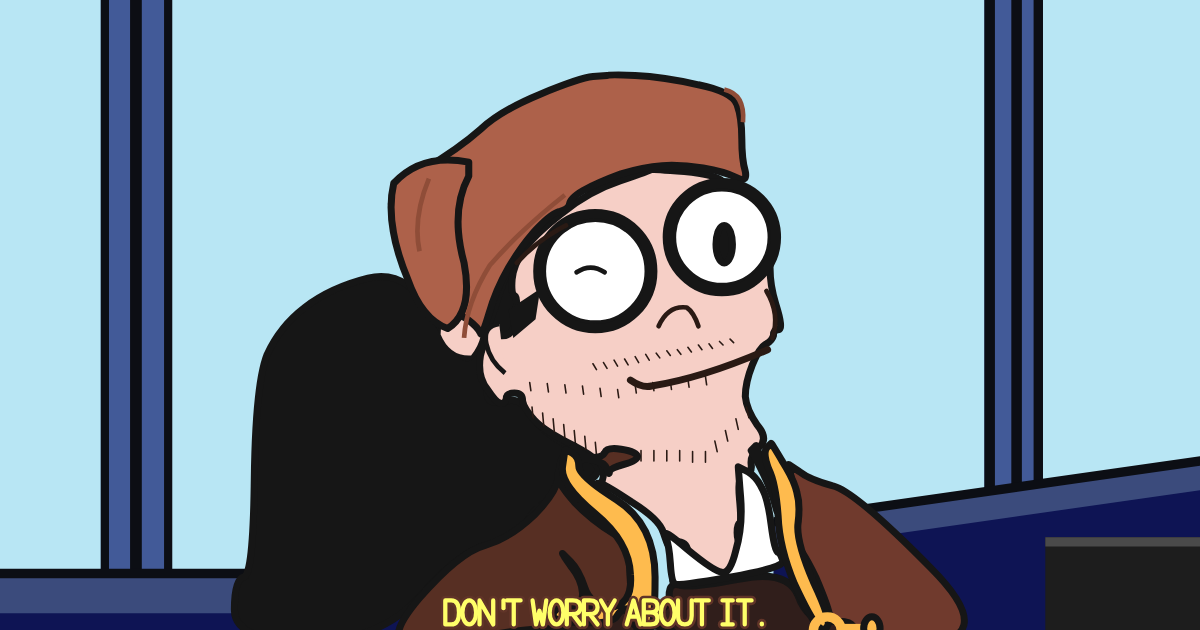
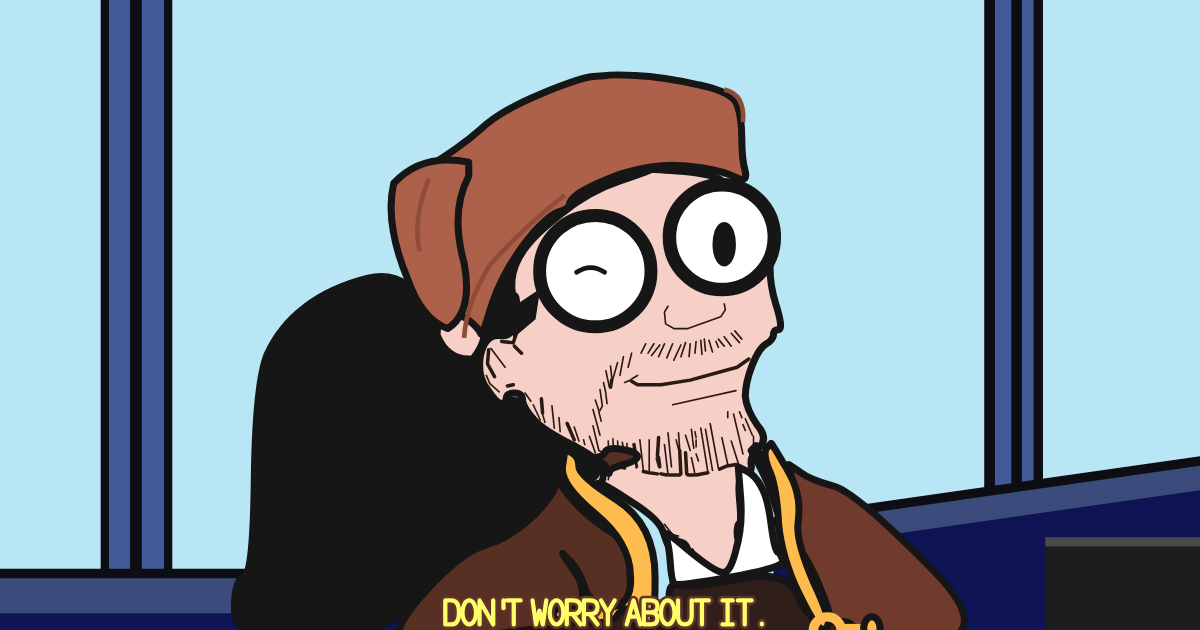
tipsy: rebuild face linework from measured reference pixels, not hand-drawn — nose/smile/brow/stubble/ear-folds all extracted in one pass

Changed region(s): [[0.4625, 0.4825, 0.6475, 0.754], [0.4008, 0.5127, 0.4625, 0.6635]]

diff --git a/tipsy/tipsy/index.html b/tipsy/tipsy/index.html
@@ -4,18 +4,18 @@
 <meta charset="utf-8">
 <meta name="viewport" content="width=device-width,initial-scale=1">
 <title>Tipsy Turtles_Bonus Snippet_1 — on chain</title>
-<meta name="description" content="Tipsy Turtles_Bonus Snippet_1 redrawn as vector art and stored entirely inside its minting transaction — 12,373 bytes, no IPFS, no gateway.">
+<meta name="description" content="Tipsy Turtles_Bonus Snippet_1 redrawn as vector art and stored entirely inside its minting transaction — 13,747 bytes, no IPFS, no gateway.">
 <link rel="canonical" href="https://beacnpool.github.io/ABCDE/tipsy/tipsy/">
 <meta property="og:type" content="website">
 <meta property="og:url" content="https://beacnpool.github.io/ABCDE/tipsy/tipsy/">
 <meta property="og:title" content="Tipsy Turtles_Bonus Snippet_1 — on chain">
-<meta property="og:description" content="Tipsy Turtles_Bonus Snippet_1 redrawn as vector art and stored entirely inside its minting transaction — 12,373 bytes, no IPFS, no gateway.">
+<meta property="og:description" content="Tipsy Turtles_Bonus Snippet_1 redrawn as vector art and stored entirely inside its minting transaction — 13,747 bytes, no IPFS, no gateway.">
 <meta property="og:image" content="https://beacnpool.github.io/ABCDE/tipsy/tipsy/og.png">
 <meta property="og:image:width" content="1200">
 <meta property="og:image:height" content="630">
 <meta name="twitter:card" content="summary_large_image">
 <meta name="twitter:title" content="Tipsy Turtles_Bonus Snippet_1 — on chain">
-<meta name="twitter:description" content="Tipsy Turtles_Bonus Snippet_1 redrawn as vector art and stored entirely inside its minting transaction — 12,373 bytes, no IPFS, no gateway.">
+<meta name="twitter:description" content="Tipsy Turtles_Bonus Snippet_1 redrawn as vector art and stored entirely inside its minting transaction — 13,747 bytes, no IPFS, no gateway.">
 <meta name="twitter:image" content="https://beacnpool.github.io/ABCDE/tipsy/tipsy/og.png">
 <style>
 *{box-sizing:border-box}
@@ -100,7 +100,7 @@ footer{margin-top:44px;padding-top:16px;border-top:1px solid var(--line);
      <code>ipfs://QmaHHqybfwzf…</code> — and a pointer is only as permanent as
      whoever keeps paying to pin it.</p>
   <p class="sub">On the right is the same frame redrawn as vector art and written
-     <b>into the minting transaction itself</b>: 8,418 bytes of SVG, no gateway,
+     <b>into the minting transaction itself</b>: 9,417 bytes of SVG, no gateway,
      no pin, no bill.</p>
 
   <div class="vs">
@@ -123,9 +123,9 @@ footer{margin-top:44px;padding-top:16px;border-top:1px solid var(--line);
         <span class="tag chain">stored on Cardano</span><br>
         <b>Ours.</b> Decoded from the same base64 string that rides in the transaction
         below. Nothing was fetched to draw it.
-        <div class="bar"><i style="width:75.5%"></i></div>
-        <span style="color:var(--dim)">12,373 of 16,384 bytes
-        &middot; 76% of one transaction</span>
+        <div class="bar"><i style="width:83.9%"></i></div>
+        <span style="color:var(--dim)">13,747 of 16,384 bytes
+        &middot; 84% of one transaction</span>
       </div>
     </div>
   </div>
@@ -157,8 +157,8 @@ footer{margin-top:44px;padding-top:16px;border-top:1px solid var(--line);
     <tr><td>closes</td><td>24 Aug 2026 13:04 UTC</td></tr>
     <tr><td>asset name</td><td><code>TIPSY&lt;8 hex&gt;</code> — derived from the
         UTxO you spend, so every mint is a distinct token</td></tr>
-    <tr><td>image</td><td><code>8,418 bytes</code> of SVG, base64 in CIP-25 metadata</td></tr>
-    <tr><td>you pay</td><td><b>~0.70 ADA</b> network fee, plus
+    <tr><td>image</td><td><code>9,417 bytes</code> of SVG, base64 in CIP-25 metadata</td></tr>
+    <tr><td>you pay</td><td><b>~0.76 ADA</b> network fee, plus
         <b>~1.18 ADA</b> min-UTxO that stays in your wallet</td></tr>
     <tr><td>creator takes</td><td><b>nothing</b> — there is no payment address in this
         transaction</td></tr>
@@ -190,7 +190,7 @@ footer{margin-top:44px;padding-top:16px;border-top:1px solid var(--line);
     transaction · <a href="../">all three frames</a></footer>
 
 </div>
-<script id="art-src" type="image/svg+xml"><svg xmlns="http://www.w3.org/2000/svg" viewBox="0 0 1024 576"><defs><path id="fp" d="M556 164Q557 164 584 166Q612 169 616 174Q619 178 631 182Q643 186 652 200Q660 213 658 235Q655 257 662 279Q669 301 664 301Q660 301 660 306Q659 310 654 313Q648 316 642 331Q636 346 636 358Q637 369 646 382Q656 394 648 401Q640 408 641 416Q642 423 636 424Q629 424 631 445Q633 466 631 466Q629 467 629 474Q629 481 632 484Q634 487 632 498Q631 510 637 510Q643 511 623 514Q603 518 602 512Q602 507 597 504Q592 501 584 501Q577 501 576 511Q574 521 574 512Q574 503 580 502Q587 500 587 492Q587 483 579 482Q571 482 570 484Q570 486 566 474Q563 463 539 448Q515 432 512 432Q508 432 512 432Q515 431 515 422Q515 413 490 400Q464 387 456 378Q447 368 446 362Q446 355 439 355Q432 355 432 360Q431 364 428 364Q424 364 416 352Q407 341 410 323Q414 305 426 306Q439 308 440 290Q442 272 439 272Q436 271 437 258Q438 246 447 233Q456 220 479 202Q502 183 529 174Q556 165 556 164Z"/><clipPath id="fc"><use href="#fp"/></clipPath><path id="A" d="M0 28 8 0 16 28M3 19h10"/><path id="B" d="M0 28V0h8q8 0 8 7t-8 7H0m8 0q8 0 8 7t-8 7H0"/><path id="D" d="M0 0h7q9 0 9 14t-9 14H0z"/><path id="I" d="M2 0h12M8 0v28M2 28h12"/><path id="N" d="M0 28V0l16 28V0"/><path id="O" d="M8 0a8 14 0 0 0 0 28a8 14 0 0 0 0-28z"/><path id="R" d="M0 28V0h7q9 0 9 8t-9 8H0m7 0 9 12"/><path id="T" d="M0 0h16M8 0v28"/><path id="U" d="M0 0v18q0 10 8 10t8-10V0"/><path id="W" d="M0 0 4 28 8 12 12 28 16 0"/><path id="Y" d="M0 0 8 14 16 0M8 14v14"/><path id="k" d="M8 0v9"/><path id="p" d="M8 27v1"/><g id="cp" transform="translate(380 532)scale(0.73)"><use href="#D" x="0"/><use href="#O" x="20"/><use href="#N" x="40"/><use href="#k" x="60"/><use href="#T" x="72"/><use href="#W" x="102"/><use href="#O" x="122"/><use href="#R" x="142"/><use href="#R" x="162"/><use href="#Y" x="182"/><use href="#A" x="212"/><use href="#B" x="232"/><use href="#O" x="252"/><use href="#U" x="272"/><use href="#T" x="292"/><use href="#I" x="322"/><use href="#T" x="342"/><use href="#p" x="362"/></g></defs><path d="M0 0h1024v576H0z" fill="#b8e6f4"/><path d="M86 0h60v520H86z" fill="#425a98"/><path d="M86 0h7v520h-7zm25 0h10v520h-10zm29 0h7v520h-7z" fill="#0c0e14"/><path d="M840 0h50v448h-50z" fill="#425a98"/><path d="M840 0h9v448h-9zm23 0h9v448h-9zm19 0h8v448h-8z" fill="#0c0e14"/><path d="M0 508h446v68H0z" fill="#3b4b7c"/><path d="M0 543h446v33H0z" fill="#0e1454"/><path d="M0 505h446v8H0z" fill="#0c0e14"/><path d="M660 466 1024 414v162H660z" fill="#0e1454"/><path d="M660 466 1024 414v24L660 490z" fill="#3b4b7c"/><path d="M660 461 1024 409v8L660 469z" fill="#0c0e14"/><path d="M892 478h132v98H892z" fill="#1d1d1d"/><path d="M892 478h132v8H892z" fill="#4a4a4a"/><g stroke="#161616" stroke-width="6" stroke-linejoin="round"><path d="M454 244Q455 244 463 261Q471 278 491 290Q511 302 478 291Q446 280 445 300Q444 319 430 316Q416 313 415 334Q414 356 417 360Q420 365 432 362Q444 358 454 374Q463 389 487 401Q511 413 510 420Q510 427 500 430Q489 432 489 440Q489 448 479 446Q469 444 459 453Q449 462 449 470Q449 478 465 485Q481 492 489 502Q497 513 504 533Q511 553 506 560Q500 567 496 561Q491 555 436 554Q381 554 382 547Q384 540 441 539Q498 538 492 518Q487 499 465 488Q443 478 418 484Q393 489 359 528Q325 567 262 567Q200 567 200 540Q200 514 208 512Q216 511 217 429Q218 347 228 322Q239 298 260 282Q282 265 314 257Q346 249 368 286Q389 324 398 325Q407 326 420 289Q432 252 434 249Q436 246 436 253Q437 260 445 260Q453 260 454 252Q454 245 454 244Z" fill="#161616"/><use href="#fp" fill="#f6cfc6"/><path d="M377 287Q392 295 409 289Q415 306 402 323Q384 324 376 305Z" fill="#f6cfc6" stroke="none"/><path d="M518 84Q519 83 542 84Q566 85 596 92Q625 98 629 109Q633 120 633 138Q633 156 636 166Q638 176 628 171Q618 166 600 163Q581 160 565 161Q549 162 530 168Q511 175 498 182Q486 189 486 194Q485 198 478 200Q471 201 458 215Q445 229 434 248Q423 267 417 288Q411 308 410 304Q408 299 400 293Q392 287 384 288Q376 289 376 294Q375 299 364 284Q352 268 350 250Q347 231 341 219Q335 207 334 194Q333 181 362 164Q392 146 410 130Q427 114 461 100Q495 86 506 85Q518 84 518 84Z" fill="#ad614a"/><path d="M400 158Q360 150 336 176Q328 210 348 258Q360 292 382 300Q404 286 396 244Q384 200 400 170Z" fill="#ad614a"/><path d="M482 186q-38 30-64 60-20 32-22 62" fill="none" stroke="#8f4d38" stroke-width="4"/><path d="M366 172q-14 34-8 62" fill="none" stroke="#8f4d38" stroke-width="4"/><path d="M618 96q18 4 16 28" fill="none" stroke="#8f4d38" stroke-width="4"/><circle cx="508" cy="251" r="45" fill="#fff"/><circle cx="616" cy="222" r="42" fill="#fff"/><ellipse cx="618" cy="228" rx="7" ry="16" fill="#161616"/><path d="M492 252q12-8 24 0" fill="none" stroke="#161616" stroke-width="4" stroke-linecap="round"/><path d="M461 266 434 284l4 24 19-16z" fill="#161616" stroke="none"/><path d="M426 296q-14 2-11 17t16 25" fill="#f6cfc6" stroke-width="4"/><g fill="none" stroke="#161616"><circle cx="508" cy="251" r="49" stroke-width="8"/><circle cx="616" cy="222" r="46" stroke-width="9"/></g><g fill="none" stroke="#2a1a14" stroke-linecap="round"><path d="M562 298q8-18 24-16 6 4 10 16" stroke-width="4"/><path d="M538 344Q548 351 556 349Q600 342 655 318" stroke-width="6"/><path d="M654 268q12 20 5 40" stroke-width="4"/><path d="M441 244q18-20 42-32" stroke-width="4"/></g><g clip-path="url(#fc)" fill="none" stroke="#2a1a14" stroke-width="1.35" stroke-linecap="round"><path d="M506 330l3 5M515 329l3 5M524 327l3 5M533 326l3 5M542 324l3 5M551 322l3 5M560 321l3 4M569 319l3 4M578 318l3 4M587 316l3 4M596 314l3 4M605 313l3 4M614 311l3 3M623 309l3 3M436 358l1 11M445 362l1 11M454 367l1 11M463 372l1 11M472 377l1 11M481 382l1 11M490 387l1 11M499 392l1 11M508 397l1 11M452 346l1 7M467 347l1 7M482 348l1 7M497 349l1 7M512 351l1 7M527 352l1 7M542 348l1 7M557 346l1 7M572 345l1 7M587 343l1 7M602 341l1 7M514 405l0 9M525 405l0 9M536 404l0 9M547 404l0 9M558 404l0 9M569 404l0 9M580 404l0 9M591 405l0 9M602 405l0 9M610 396l2 9M619 387l2 9M628 377l2 9M637 367l2 9M646 357l2 9M655 347l2 9"/></g><path d="M673 416Q673 416 682 422Q691 429 710 434Q729 438 794 504Q859 569 778 570Q697 570 694 560Q691 551 699 551Q707 551 708 546Q708 540 696 512Q683 485 678 484Q673 484 678 474Q684 464 678 440Q673 417 673 416Z" fill="#703a2d"/><path d="M641 404Q650 420 655 432Q660 444 663 456L667 452Q662 438 657 426Q650 412 645 400Z" fill="#703a2d"/><path d="M490 400Q490 400 494 405Q499 410 506 410Q514 410 516 406Q518 401 530 403Q543 405 544 409Q544 413 532 416Q521 419 520 422Q520 426 518 420Q516 414 505 412Q494 410 492 416Q491 422 484 421Q476 420 476 426Q476 432 490 448Q504 463 525 476Q546 490 541 490Q536 491 538 517Q539 543 542 544Q546 544 546 549Q547 554 554 554Q560 554 551 554Q542 554 542 562Q541 570 540 564Q538 559 526 558Q513 556 478 556Q442 556 412 563Q383 570 354 570Q324 570 358 530Q392 491 414 485Q435 479 456 459Q476 439 477 424Q478 409 484 405Q490 401 490 400Z" fill="#572f23"/><path d="M480 492Q480 492 487 499Q494 506 499 521Q504 536 519 536Q534 536 534 540Q535 545 553 543Q571 541 571 528Q571 516 580 519Q588 522 630 514Q672 505 681 528Q690 552 710 550Q729 548 729 558Q729 569 724 566Q718 562 708 562Q699 562 698 566Q698 569 638 569Q577 569 576 562Q574 554 558 554Q542 554 542 562Q541 569 510 569Q480 569 480 554Q480 539 489 538Q498 536 497 525Q496 514 488 504Q480 493 480 492Z" fill="#301e1b"/><path d="M630 418Q630 418 638 422Q646 427 650 436Q655 444 658 467Q661 490 664 491Q666 492 668 498Q670 504 624 512Q578 520 576 518Q573 516 572 500Q571 485 568 477Q564 469 586 488Q609 507 616 508Q623 510 628 489Q634 468 632 444Q630 419 630 418Z" fill="#ffffff"/><path d="M482 404Q482 403 488 406Q494 409 494 418Q494 426 526 446Q559 467 559 512Q559 556 554 557Q548 558 544 555Q539 552 540 546Q540 539 535 539Q530 539 526 546Q522 552 496 551Q470 550 472 544Q473 539 479 538Q485 537 486 540Q486 543 490 543Q495 543 496 540Q498 538 519 538Q540 537 538 510Q537 482 508 458Q478 433 480 418Q482 404 482 404Z" fill="#febb4e"/><path d="M658 398Q658 397 668 414Q678 430 680 440Q683 450 681 466Q679 481 694 516Q710 550 706 554Q703 559 698 554Q692 548 678 518Q665 487 664 460Q662 432 656 420Q651 407 654 402Q658 398 658 398Z" fill="#febb4e"/><g fill="none" stroke="#febb4e" stroke-width="8"><circle cx="706" cy="558" r="12"/><path d="M718 556h20"/></g><ellipse cx="744" cy="556" rx="7" ry="10" fill="#febb4e"/></g><g fill="none" stroke-linecap="round" stroke-linejoin="round"><use href="#cp" stroke="#603428" stroke-width="11"/><use href="#cp" stroke="#ffff69" stroke-width="5"/></g></svg></script>
+<script id="art-src" type="image/svg+xml"><svg xmlns="http://www.w3.org/2000/svg" viewBox="0 0 1024 576"><defs><path id="fp" d="M556 164Q557 164 584 166Q612 169 616 174Q619 178 631 182Q643 186 652 200Q660 213 658 235Q655 257 662 279Q669 301 664 301Q660 301 660 306Q659 310 654 313Q648 316 642 331Q636 346 636 358Q637 369 646 382Q656 394 648 401Q640 408 641 416Q642 423 636 424Q629 424 631 445Q633 466 631 466Q629 467 629 474Q629 481 632 484Q634 487 632 498Q631 510 637 510Q643 511 623 514Q603 518 602 512Q602 507 597 504Q592 501 584 501Q577 501 576 511Q574 521 574 512Q574 503 580 502Q587 500 587 492Q587 483 579 482Q571 482 570 484Q570 486 566 474Q563 463 539 448Q515 432 512 432Q508 432 512 432Q515 431 515 422Q515 413 490 400Q464 387 456 378Q447 368 446 362Q446 355 439 355Q432 355 432 360Q431 364 428 364Q424 364 416 352Q407 341 410 323Q414 305 426 306Q439 308 440 290Q442 272 439 272Q436 271 437 258Q438 246 447 233Q456 220 479 202Q502 183 529 174Q556 165 556 164Z"/><clipPath id="fc"><use href="#fp"/></clipPath><path id="A" d="M0 28 8 0 16 28M3 19h10"/><path id="B" d="M0 28V0h8q8 0 8 7t-8 7H0m8 0q8 0 8 7t-8 7H0"/><path id="D" d="M0 0h7q9 0 9 14t-9 14H0z"/><path id="I" d="M2 0h12M8 0v28M2 28h12"/><path id="N" d="M0 28V0l16 28V0"/><path id="O" d="M8 0a8 14 0 0 0 0 28a8 14 0 0 0 0-28z"/><path id="R" d="M0 28V0h7q9 0 9 8t-9 8H0m7 0 9 12"/><path id="T" d="M0 0h16M8 0v28"/><path id="U" d="M0 0v18q0 10 8 10t8-10V0"/><path id="W" d="M0 0 4 28 8 12 12 28 16 0"/><path id="Y" d="M0 0 8 14 16 0M8 14v14"/><path id="k" d="M8 0v9"/><path id="p" d="M8 27v1"/><g id="cp" transform="translate(380 532)scale(0.73)"><use href="#D" x="0"/><use href="#O" x="20"/><use href="#N" x="40"/><use href="#k" x="60"/><use href="#T" x="72"/><use href="#W" x="102"/><use href="#O" x="122"/><use href="#R" x="142"/><use href="#R" x="162"/><use href="#Y" x="182"/><use href="#A" x="212"/><use href="#B" x="232"/><use href="#O" x="252"/><use href="#U" x="272"/><use href="#T" x="292"/><use href="#I" x="322"/><use href="#T" x="342"/><use href="#p" x="362"/></g></defs><path d="M0 0h1024v576H0z" fill="#b8e6f4"/><path d="M86 0h60v520H86z" fill="#425a98"/><path d="M86 0h7v520h-7zm25 0h10v520h-10zm29 0h7v520h-7z" fill="#0c0e14"/><path d="M840 0h50v448h-50z" fill="#425a98"/><path d="M840 0h9v448h-9zm23 0h9v448h-9zm19 0h8v448h-8z" fill="#0c0e14"/><path d="M0 508h446v68H0z" fill="#3b4b7c"/><path d="M0 543h446v33H0z" fill="#0e1454"/><path d="M0 505h446v8H0z" fill="#0c0e14"/><path d="M660 466 1024 414v162H660z" fill="#0e1454"/><path d="M660 466 1024 414v24L660 490z" fill="#3b4b7c"/><path d="M660 461 1024 409v8L660 469z" fill="#0c0e14"/><path d="M892 478h132v98H892z" fill="#1d1d1d"/><path d="M892 478h132v8H892z" fill="#4a4a4a"/><g stroke="#161616" stroke-width="6" stroke-linejoin="round"><path d="M454 244Q455 244 463 261Q471 278 491 290Q511 302 478 291Q446 280 445 300Q444 319 430 316Q416 313 415 334Q414 356 417 360Q420 365 432 362Q444 358 454 374Q463 389 487 401Q511 413 510 420Q510 427 500 430Q489 432 489 440Q489 448 479 446Q469 444 459 453Q449 462 449 470Q449 478 465 485Q481 492 489 502Q497 513 504 533Q511 553 506 560Q500 567 496 561Q491 555 436 554Q381 554 382 547Q384 540 441 539Q498 538 492 518Q487 499 465 488Q443 478 418 484Q393 489 359 528Q325 567 262 567Q200 567 200 540Q200 514 208 512Q216 511 217 429Q218 347 228 322Q239 298 260 282Q282 265 314 257Q346 249 368 286Q389 324 398 325Q407 326 420 289Q432 252 434 249Q436 246 436 253Q437 260 445 260Q453 260 454 252Q454 245 454 244Z" fill="#161616"/><use href="#fp" fill="#f6cfc6"/><path d="M377 287Q392 295 409 289Q415 306 402 323Q384 324 376 305Z" fill="#f6cfc6" stroke="none"/><g clip-path="url(#fc)" fill="none" stroke="#2a1a14" stroke-linecap="round"><path d="M634 407 L626 373M498 395 L499 399M570 424 L567 399M591 488 L594 494M535 398 L535 406M563 314 L556 323M633 376 L631 371M569 325 L574 313M448 355 L453 362M536 333 L539 321M494 396 L490 384M471 366 L473 385M581 324 L585 312M624 396 L630 415M520 414 L519 396M542 413 L543 419M518 364 L517 356M643 399 L643 392M567 313 L562 324M515 346 L517 355M529 340 L532 324M554 423 L554 395M512 352 L514 366 L512 370M528 413 L527 396M604 422 L598 385M508 361 L511 370M613 316 L611 311M522 342 L521 332M523 394 L524 416M601 309 L602 319M589 313 L588 324M455 365 L461 378M521 420 L519 429M570 389 L573 418M579 389 L580 403M539 343 L544 340M636 387 L634 382M463 373 L465 380M419 317 L431 333M547 321 L551 313M594 395 L594 401M517 336 L520 350M533 408 L534 416M511 371 L513 379M624 315 L618 307M592 402 L591 395M621 416 L616 393M575 327 L581 314M579 403 L577 395M602 386 L608 421M426 354 L418 347 L415 340M560 411 L562 418M535 407 L536 415M594 311 L593 321M574 365 L628 353M590 410 L593 424M599 322 L598 310M570 281 L567 286 L568 296 L575 300 L587 300 L615 290 L619 284 L618 279M523 343 L527 329M567 467 L574 476 L579 477M596 413 L594 407M533 346 L538 344M633 309 L627 302M591 394 L590 386M546 395 L549 421M544 418 L543 413M636 377 L642 391M606 381 L613 419M519 415 L516 413 L515 406 L511 404 L506 383M506 369 L512 391M594 393 L593 388M624 304 L631 312M589 404 L585 391M613 309 L618 315M621 376 L621 371M477 376 L478 388M503 392 L508 406M608 320 L605 310M531 397 L533 407M553 321 L558 313M625 499 L627 484" stroke-width="1.4"/><path d="M541 399 L543 412M428 311 L437 312M561 424 L554 423M571 425 L580 425M417 318 L416 330 L422 341M554 423 L549 422M445 321 L439 315M564 424 L569 425M525 417 L533 419M639 326 L629 333 L589 344 L564 348 L544 348 L539 345M622 417 L628 416M438 312 L441 303M594 425 L604 423M621 417 L614 420M563 418 L562 410M521 350 L522 344M586 424 L585 406M438 348 L433 349M561 409 L562 393M581 424 L580 404M484 381 L490 395M592 425 L587 425M462 360 L463 372" stroke-width="3"/></g><path d="M518 84Q519 83 542 84Q566 85 596 92Q625 98 629 109Q633 120 633 138Q633 156 636 166Q638 176 628 171Q618 166 600 163Q581 160 565 161Q549 162 530 168Q511 175 498 182Q486 189 486 194Q485 198 478 200Q471 201 458 215Q445 229 434 248Q423 267 417 288Q411 308 410 304Q408 299 400 293Q392 287 384 288Q376 289 376 294Q375 299 364 284Q352 268 350 250Q347 231 341 219Q335 207 334 194Q333 181 362 164Q392 146 410 130Q427 114 461 100Q495 86 506 85Q518 84 518 84Z" fill="#ad614a"/><path d="M400 158Q360 150 336 176Q328 210 348 258Q360 292 382 300Q404 286 396 244Q384 200 400 170Z" fill="#ad614a"/><path d="M482 186q-38 30-64 60-20 32-22 62" fill="none" stroke="#8f4d38" stroke-width="4"/><path d="M366 172q-14 34-8 62" fill="none" stroke="#8f4d38" stroke-width="4"/><path d="M618 96q18 4 16 28" fill="none" stroke="#8f4d38" stroke-width="4"/><circle cx="508" cy="251" r="45" fill="#fff"/><circle cx="616" cy="222" r="42" fill="#fff"/><ellipse cx="618" cy="228" rx="7" ry="16" fill="#161616"/><path d="M492 252q12-8 24 0" fill="none" stroke="#161616" stroke-width="4" stroke-linecap="round"/><path d="M461 266 434 284l4 24 19-16z" fill="#161616" stroke="none"/><g fill="none" stroke="#161616"><circle cx="508" cy="251" r="49" stroke-width="8"/><circle cx="616" cy="222" r="46" stroke-width="9"/></g><path d="M673 416Q673 416 682 422Q691 429 710 434Q729 438 794 504Q859 569 778 570Q697 570 694 560Q691 551 699 551Q707 551 708 546Q708 540 696 512Q683 485 678 484Q673 484 678 474Q684 464 678 440Q673 417 673 416Z" fill="#703a2d"/><path d="M641 404Q650 420 655 432Q660 444 663 456L667 452Q662 438 657 426Q650 412 645 400Z" fill="#703a2d"/><path d="M490 400Q490 400 494 405Q499 410 506 410Q514 410 516 406Q518 401 530 403Q543 405 544 409Q544 413 532 416Q521 419 520 422Q520 426 518 420Q516 414 505 412Q494 410 492 416Q491 422 484 421Q476 420 476 426Q476 432 490 448Q504 463 525 476Q546 490 541 490Q536 491 538 517Q539 543 542 544Q546 544 546 549Q547 554 554 554Q560 554 551 554Q542 554 542 562Q541 570 540 564Q538 559 526 558Q513 556 478 556Q442 556 412 563Q383 570 354 570Q324 570 358 530Q392 491 414 485Q435 479 456 459Q476 439 477 424Q478 409 484 405Q490 401 490 400Z" fill="#572f23"/><path d="M480 492Q480 492 487 499Q494 506 499 521Q504 536 519 536Q534 536 534 540Q535 545 553 543Q571 541 571 528Q571 516 580 519Q588 522 630 514Q672 505 681 528Q690 552 710 550Q729 548 729 558Q729 569 724 566Q718 562 708 562Q699 562 698 566Q698 569 638 569Q577 569 576 562Q574 554 558 554Q542 554 542 562Q541 569 510 569Q480 569 480 554Q480 539 489 538Q498 536 497 525Q496 514 488 504Q480 493 480 492Z" fill="#301e1b"/><path d="M630 418Q630 418 638 422Q646 427 650 436Q655 444 658 467Q661 490 664 491Q666 492 668 498Q670 504 624 512Q578 520 576 518Q573 516 572 500Q571 485 568 477Q564 469 586 488Q609 507 616 508Q623 510 628 489Q634 468 632 444Q630 419 630 418Z" fill="#ffffff"/><path d="M482 404Q482 403 488 406Q494 409 494 418Q494 426 526 446Q559 467 559 512Q559 556 554 557Q548 558 544 555Q539 552 540 546Q540 539 535 539Q530 539 526 546Q522 552 496 551Q470 550 472 544Q473 539 479 538Q485 537 486 540Q486 543 490 543Q495 543 496 540Q498 538 519 538Q540 537 538 510Q537 482 508 458Q478 433 480 418Q482 404 482 404Z" fill="#febb4e"/><path d="M658 398Q658 397 668 414Q678 430 680 440Q683 450 681 466Q679 481 694 516Q710 550 706 554Q703 559 698 554Q692 548 678 518Q665 487 664 460Q662 432 656 420Q651 407 654 402Q658 398 658 398Z" fill="#febb4e"/><g fill="none" stroke="#febb4e" stroke-width="8"><circle cx="706" cy="558" r="12"/><path d="M718 556h20"/></g><ellipse cx="744" cy="556" rx="7" ry="10" fill="#febb4e"/></g><g fill="none" stroke-linecap="round" stroke-linejoin="round"><use href="#cp" stroke="#603428" stroke-width="11"/><use href="#cp" stroke="#ffff69" stroke-width="5"/></g></svg></script>
 <script type="module">
 const ANCHOR_SLOT = 193727336, ANCHOR_UNIX = 1785293627;
 const DEADLINE_SLOT = 196010381, TICKER = 'TIPSY';

diff --git a/tipsy/index.html b/tipsy/index.html
@@ -4,18 +4,18 @@
 <meta charset="utf-8">
 <meta name="viewport" content="width=device-width,initial-scale=1">
 <title>Tipsy Turtles, on chain</title>
-<meta name="description" content="Three Tipsy Turtles frames redrawn as vector art and stored entirely inside their minting transactions — 31.5 kB of chain against 4.1 MB of pinned PNG.">
+<meta name="description" content="Three Tipsy Turtles frames redrawn as vector art and stored entirely inside their minting transactions — 32.9 kB of chain against 4.1 MB of pinned PNG.">
 <link rel="canonical" href="https://beacnpool.github.io/ABCDE/tipsy/">
 <meta property="og:type" content="website">
 <meta property="og:url" content="https://beacnpool.github.io/ABCDE/tipsy/">
 <meta property="og:title" content="Tipsy Turtles, on chain">
-<meta property="og:description" content="Three Tipsy Turtles frames redrawn as vector art and stored entirely inside their minting transactions — 31.5 kB of chain against 4.1 MB of pinned PNG.">
+<meta property="og:description" content="Three Tipsy Turtles frames redrawn as vector art and stored entirely inside their minting transactions — 32.9 kB of chain against 4.1 MB of pinned PNG.">
 <meta property="og:image" content="https://beacnpool.github.io/ABCDE/tipsy/og.png">
 <meta property="og:image:width" content="1200">
 <meta property="og:image:height" content="630">
 <meta name="twitter:card" content="summary_large_image">
 <meta name="twitter:title" content="Tipsy Turtles, on chain">
-<meta name="twitter:description" content="Three Tipsy Turtles frames redrawn as vector art and stored entirely inside their minting transactions — 31.5 kB of chain against 4.1 MB of pinned PNG.">
+<meta name="twitter:description" content="Three Tipsy Turtles frames redrawn as vector art and stored entirely inside their minting transactions — 32.9 kB of chain against 4.1 MB of pinned PNG.">
 <meta name="twitter:image" content="https://beacnpool.github.io/ABCDE/tipsy/og.png">
 <style>
 *{box-sizing:border-box}
@@ -112,7 +112,7 @@ footer{margin-top:44px;padding-top:16px;border-top:1px solid var(--line);
      it. Each of these is the same frame redrawn as vector art and written
      <b>into the minting transaction itself</b>. No gateway, no pin, no bill.</p>
   <p class="sub">Together that is <b>4.1 MB</b> of pinned PNG on one side
-     and <b>31.5 kB</b> of transaction on the other. Open any of them: the
+     and <b>32.9 kB</b> of transaction on the other. Open any of them: the
      left panel is fetched live from your gateway, the right is decoded from the chain.</p>
 
   <div class="cards">
@@ -121,7 +121,7 @@ footer{margin-top:44px;padding-top:16px;border-top:1px solid var(--line);
               alt="Tipsy Turtles_Bonus Snippet_1" loading="lazy"></span>
         <span class="meta"><b>Tipsy Turtles_Bonus Snippet_1</b>A character bust with a hand-lettered subtitle. Stubble is individual strokes, not a hatch fill; the hat flap is drawn as its own lobe.
           <span class="ratio"><span>their PNG <b>2.12 MB</b></span>
-          <span>our transaction <b>12.4 kB</b></span></span>
+          <span>our transaction <b>13.7 kB</b></span></span>
         </span>
       </a>
       <a class="card" href="ghost/">
